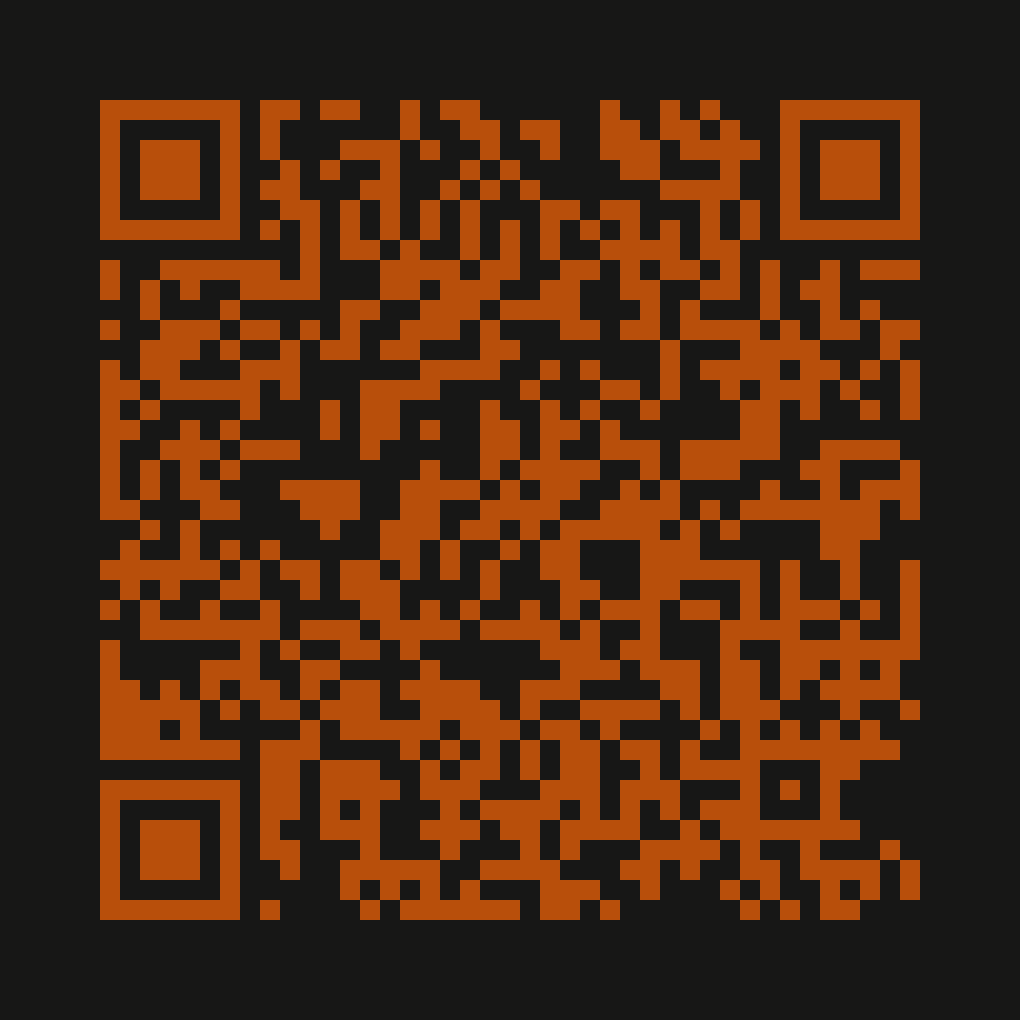
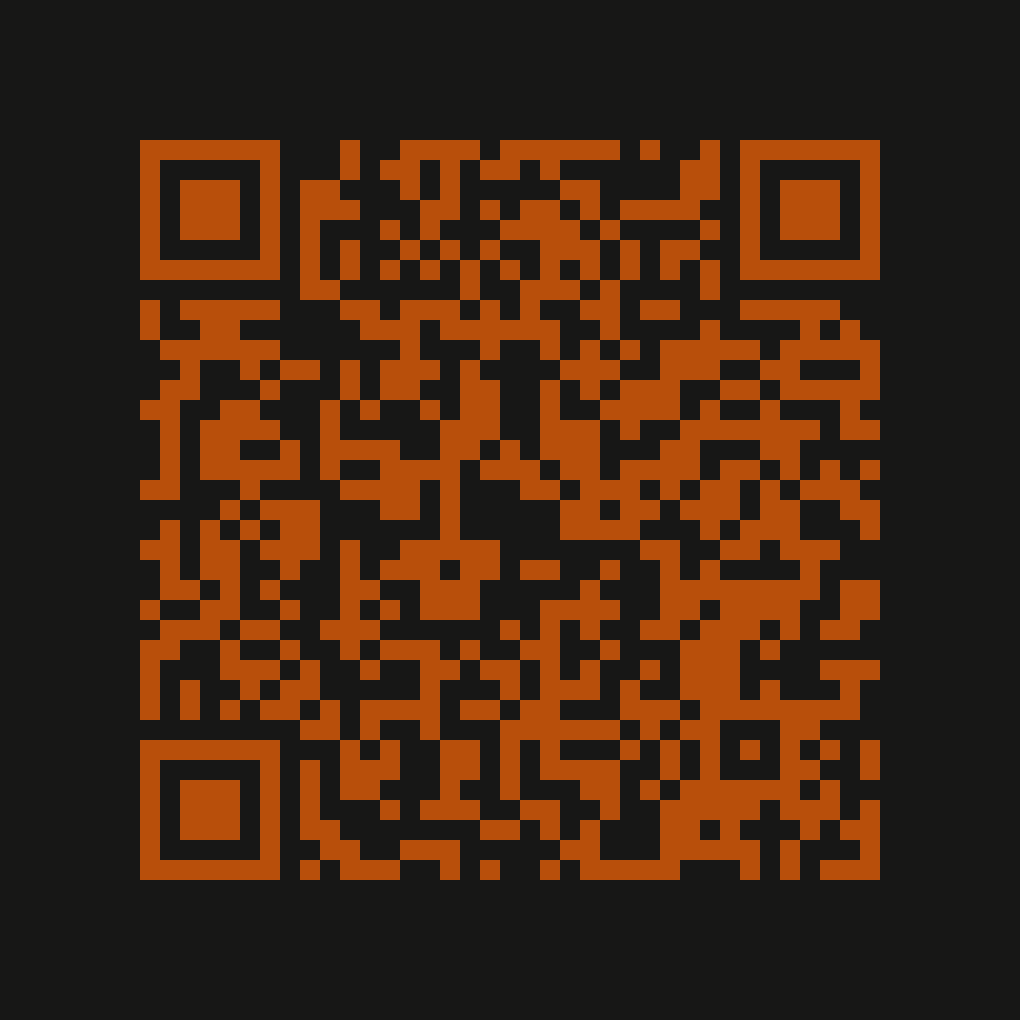
Point presentation QR code to florianherrengt.com

diff --git a/slides.md b/slides.md
@@ -872,9 +872,9 @@ class: ux-postings-slide recap-option recap-columns
       <li>Never correct the AI.</li>
       <li>Automate everything.</li>
     </ul>
-    <a class="blog-link" href="https://blog.florianherrengt.com/?utm_source=ux-brighton&amp;utm_medium=qr&amp;utm_campaign=2026" target="_blank" rel="noopener noreferrer">
-      <img src="./assets/closing/blog-qr.png" width="260" height="260" alt="QR code linking to blog.florianherrengt.com with UX Brighton 2026 campaign tracking" />
-      <span>blog.florianherrengt.com</span>
+    <a class="blog-link" href="https://florianherrengt.com/?utm_source=ux-brighton&amp;utm_medium=qr&amp;utm_campaign=2026" target="_blank" rel="noopener noreferrer">
+      <img src="./assets/closing/blog-qr.png" width="260" height="260" alt="QR code linking to florianherrengt.com with UX Brighton 2026 campaign tracking" />
+      <span>florianherrengt.com</span>
     </a>
   </section>
 </div>
@@ -883,7 +883,7 @@ class: ux-postings-slide recap-option recap-columns
 [Sources]
 - Historical lessons summarise the factory, red-flag, William Durant and George Stephenson sections of draft.md, in the talk’s existing story order.
 - All seven imperatives retain the wording of the existing closing recap. The four historical lessons and three working rules are presented as separate groups.
-- QR code generated locally with macOS Core Image; uses the deck palette and the user-approved blog URL and Google Analytics tags. No external artwork.
+- QR code generated locally with macOS Core Image; uses the deck palette and the user-requested website URL and Google Analytics tags. No external artwork.
 [/Sources]
 -->
 
@@ -906,16 +906,16 @@ class: ai-claim-slide closing-recap-slide closing-comparison-slide
   </ul>
 </section>
 
-<a class="blog-link" href="https://blog.florianherrengt.com/?utm_source=ux-brighton&amp;utm_medium=qr&amp;utm_campaign=2026" target="_blank" rel="noopener noreferrer">
-  <img src="./assets/closing/blog-qr.png" width="260" height="260" alt="QR code linking to blog.florianherrengt.com with UX Brighton 2026 campaign tracking" />
-  <span>blog.florianherrengt.com</span>
+<a class="blog-link" href="https://florianherrengt.com/?utm_source=ux-brighton&amp;utm_medium=qr&amp;utm_campaign=2026" target="_blank" rel="noopener noreferrer">
+  <img src="./assets/closing/blog-qr.png" width="260" height="260" alt="QR code linking to florianherrengt.com with UX Brighton 2026 campaign tracking" />
+  <span>florianherrengt.com</span>
 </a>
 
 <!--
 [Sources]
 - User-requested comparison with the published original recap, retaining its wording, list order and composition: https://florianherrengt.github.io/ux-brighton-2026/45
 - The first four points summarise the historical stories in draft.md; the remaining three retain the author's practical advice.
-- QR code generated locally with macOS Core Image; reuses the current orange asset, user-approved blog URL and Google Analytics tags. No external artwork.
+- QR code generated locally with macOS Core Image; reuses the current orange asset, user-requested website URL and Google Analytics tags. No external artwork.
 [/Sources]
 -->
 
@@ -934,9 +934,9 @@ class: ux-postings-slide qr-study qr-study--rail
       <li>Understand the machine.</li>
     </ul>
   </section>
-  <a class="blog-link" href="https://blog.florianherrengt.com/?utm_source=ux-brighton&amp;utm_medium=qr&amp;utm_campaign=2026" target="_blank" rel="noopener noreferrer">
-    <img src="./assets/closing/blog-qr.png" width="220" height="220" alt="QR code linking to blog.florianherrengt.com with UX Brighton 2026 campaign tracking" />
-    <span>blog.florianherrengt.com</span>
+  <a class="blog-link" href="https://florianherrengt.com/?utm_source=ux-brighton&amp;utm_medium=qr&amp;utm_campaign=2026" target="_blank" rel="noopener noreferrer">
+    <img src="./assets/closing/blog-qr.png" width="220" height="220" alt="QR code linking to florianherrengt.com with UX Brighton 2026 campaign tracking" />
+    <span>florianherrengt.com</span>
   </a>
   <section class="qr-study-practice" aria-labelledby="qr-study-rail-practice">
     <h2 id="qr-study-rail-practice">How to work now</h2>
@@ -951,7 +951,7 @@ class: ux-postings-slide qr-study qr-study--rail
 <!--
 [Sources]
 - User-requested layout exploration. Both headings and all seven advice phrases are retained from the current recap and draft.md; no new claims.
-- Reused orange QR asset generated locally with macOS Core Image: assets/closing/blog-qr.png. It encodes the user-approved blog URL with utm_source=ux-brighton, utm_medium=qr and utm_campaign=2026; no external artwork.
+- Reused orange QR asset generated locally with macOS Core Image: assets/closing/blog-qr.png. It encodes the user-requested website URL with utm_source=ux-brighton, utm_medium=qr and utm_campaign=2026; no external artwork.
 [/Sources]
 -->
 
@@ -980,16 +980,16 @@ class: ux-postings-slide qr-study qr-study--footer
     </ul>
   </section>
 </div>
-  <a class="blog-link" href="https://blog.florianherrengt.com/?utm_source=ux-brighton&amp;utm_medium=qr&amp;utm_campaign=2026" target="_blank" rel="noopener noreferrer">
-    <img src="./assets/closing/blog-qr.png" width="220" height="220" alt="QR code linking to blog.florianherrengt.com with UX Brighton 2026 campaign tracking" />
-    <span>blog.florianherrengt.com</span>
+  <a class="blog-link" href="https://florianherrengt.com/?utm_source=ux-brighton&amp;utm_medium=qr&amp;utm_campaign=2026" target="_blank" rel="noopener noreferrer">
+    <img src="./assets/closing/blog-qr.png" width="220" height="220" alt="QR code linking to florianherrengt.com with UX Brighton 2026 campaign tracking" />
+    <span>florianherrengt.com</span>
   </a>
 </div>
 
 <!--
 [Sources]
 - User-requested layout exploration. Both headings and all seven advice phrases are retained from the current recap and draft.md; no new claims.
-- Reused orange QR asset generated locally with macOS Core Image: assets/closing/blog-qr.png. It encodes the user-approved blog URL with utm_source=ux-brighton, utm_medium=qr and utm_campaign=2026; no external artwork.
+- Reused orange QR asset generated locally with macOS Core Image: assets/closing/blog-qr.png. It encodes the user-requested website URL with utm_source=ux-brighton, utm_medium=qr and utm_campaign=2026; no external artwork.
 [/Sources]
 -->
 
@@ -1018,16 +1018,16 @@ class: ux-postings-slide qr-study qr-study--spine
     </ul>
   </section>
 </div>
-  <a class="blog-link" href="https://blog.florianherrengt.com/?utm_source=ux-brighton&amp;utm_medium=qr&amp;utm_campaign=2026" target="_blank" rel="noopener noreferrer">
-    <img src="./assets/closing/blog-qr.png" width="220" height="220" alt="QR code linking to blog.florianherrengt.com with UX Brighton 2026 campaign tracking" />
-    <span>blog.florianherrengt.com</span>
+  <a class="blog-link" href="https://florianherrengt.com/?utm_source=ux-brighton&amp;utm_medium=qr&amp;utm_campaign=2026" target="_blank" rel="noopener noreferrer">
+    <img src="./assets/closing/blog-qr.png" width="220" height="220" alt="QR code linking to florianherrengt.com with UX Brighton 2026 campaign tracking" />
+    <span>florianherrengt.com</span>
   </a>
 </div>
 
 <!--
 [Sources]
 - User-requested layout exploration. Both headings and all seven advice phrases are retained from the current recap and draft.md; no new claims.
-- Reused orange QR asset generated locally with macOS Core Image: assets/closing/blog-qr.png. It encodes the user-approved blog URL with utm_source=ux-brighton, utm_medium=qr and utm_campaign=2026; no external artwork.
+- Reused orange QR asset generated locally with macOS Core Image: assets/closing/blog-qr.png. It encodes the user-requested website URL with utm_source=ux-brighton, utm_medium=qr and utm_campaign=2026; no external artwork.
 [/Sources]
 -->
 
@@ -1037,9 +1037,9 @@ class: ux-postings-slide qr-study qr-study--header
 ---
 
 <div class="qr-study-layout">
-  <a class="blog-link" href="https://blog.florianherrengt.com/?utm_source=ux-brighton&amp;utm_medium=qr&amp;utm_campaign=2026" target="_blank" rel="noopener noreferrer">
-    <img src="./assets/closing/blog-qr.png" width="200" height="200" alt="QR code linking to blog.florianherrengt.com with UX Brighton 2026 campaign tracking" />
-    <span>blog.florianherrengt.com</span>
+  <a class="blog-link" href="https://florianherrengt.com/?utm_source=ux-brighton&amp;utm_medium=qr&amp;utm_campaign=2026" target="_blank" rel="noopener noreferrer">
+    <img src="./assets/closing/blog-qr.png" width="200" height="200" alt="QR code linking to florianherrengt.com with UX Brighton 2026 campaign tracking" />
+    <span>florianherrengt.com</span>
   </a>
 <div class="qr-study-pair">
   <section class="qr-study-lessons" aria-labelledby="qr-study-header-lessons">
@@ -1065,7 +1065,7 @@ class: ux-postings-slide qr-study qr-study--header
 <!--
 [Sources]
 - User-requested layout exploration. Both headings and all seven advice phrases are retained from the current recap and draft.md; no new claims.
-- Reused orange QR asset generated locally with macOS Core Image: assets/closing/blog-qr.png. It encodes the user-approved blog URL with utm_source=ux-brighton, utm_medium=qr and utm_campaign=2026; no external artwork.
+- Reused orange QR asset generated locally with macOS Core Image: assets/closing/blog-qr.png. It encodes the user-requested website URL with utm_source=ux-brighton, utm_medium=qr and utm_campaign=2026; no external artwork.
 [/Sources]
 -->
 
@@ -1084,9 +1084,9 @@ class: ux-postings-slide qr-study qr-study--bands
       <li>Understand the machine.</li>
     </ul>
   </section>
-  <a class="blog-link" href="https://blog.florianherrengt.com/?utm_source=ux-brighton&amp;utm_medium=qr&amp;utm_campaign=2026" target="_blank" rel="noopener noreferrer">
-    <img src="./assets/closing/blog-qr.png" width="190" height="190" alt="QR code linking to blog.florianherrengt.com with UX Brighton 2026 campaign tracking" />
-    <span>blog.florianherrengt.com</span>
+  <a class="blog-link" href="https://florianherrengt.com/?utm_source=ux-brighton&amp;utm_medium=qr&amp;utm_campaign=2026" target="_blank" rel="noopener noreferrer">
+    <img src="./assets/closing/blog-qr.png" width="190" height="190" alt="QR code linking to florianherrengt.com with UX Brighton 2026 campaign tracking" />
+    <span>florianherrengt.com</span>
   </a>
   <section class="qr-study-practice" aria-labelledby="qr-study-bands-practice">
     <h2 id="qr-study-bands-practice">How to work now</h2>
@@ -1101,6 +1101,6 @@ class: ux-postings-slide qr-study qr-study--bands
 <!--
 [Sources]
 - User-requested layout exploration. Both headings and all seven advice phrases are retained from the current recap and draft.md; no new claims.
-- Reused orange QR asset generated locally with macOS Core Image: assets/closing/blog-qr.png. It encodes the user-approved blog URL with utm_source=ux-brighton, utm_medium=qr and utm_campaign=2026; no external artwork.
+- Reused orange QR asset generated locally with macOS Core Image: assets/closing/blog-qr.png. It encodes the user-requested website URL with utm_source=ux-brighton, utm_medium=qr and utm_campaign=2026; no external artwork.
 [/Sources]
 -->
